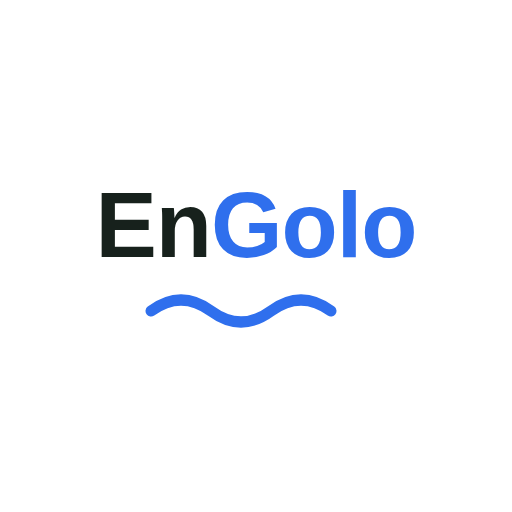
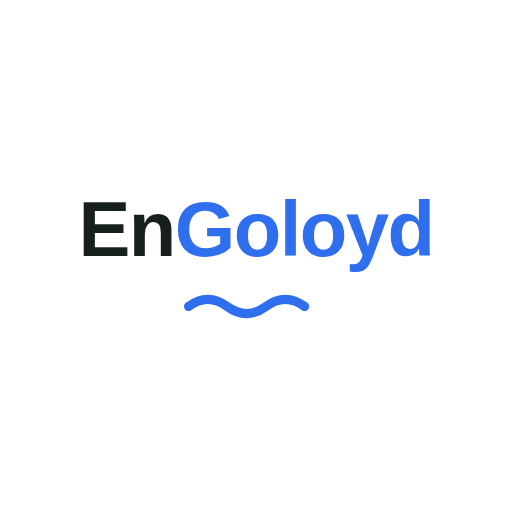
アプリ名・ロゴ・アプリアイコンを「EnGoloyd」に変更 (#69)
- タイトル・manifest.json(name/short_name)・APIキー注意書き・ロゴワードマークを
  EnGolo → EnGoloyd に更新（english + golo(ゴロ) + loyd の組み合わせ）
- ロゴの "Golo" 部分を "Goloyd" に変更し、CSSクラス名も logo-golo → logo-goloyd に統一
- アプリアイコン(icons/icon-192.png, icon-512.png)を新ワードマークで再生成

Changed region(s): [[0.1562, 0.375, 0.8438, 0.5312], [0.2812, 0.5625, 0.6562, 0.6562]]

diff --git a/index.html b/index.html
@@ -3,7 +3,7 @@
 <head>
 <meta charset="UTF-8">
 <meta name="viewport" content="width=device-width, initial-scale=1, viewport-fit=cover">
-<title>EnGolo</title>
+<title>EnGoloyd</title>
 <meta name="description" content="英単語を接辞に分解し、音の語呂合わせで覚えるアプリ">
 <meta name="theme-color" content="#1F6F63">
 <link rel="manifest" href="manifest.json">
@@ -24,7 +24,7 @@
     </div>
     <div class="home-logo">
       <button class="logo" data-nav="home" aria-label="ホームへ">
-        <span class="logo-word"><span class="logo-en">En</span><span class="logo-golo">Golo</span></span>
+        <span class="logo-word"><span class="logo-en">En</span><span class="logo-goloyd">Goloyd</span></span>
         <svg class="logo-wave" viewBox="0 0 230 46" width="30" height="6" aria-hidden="true"><path d="M10 24 Q 40 2, 70 24 T 130 24 T 190 24" stroke="currentColor" stroke-width="14" stroke-linecap="round" fill="none"/></svg>
       </button>
     </div>
@@ -46,7 +46,7 @@
   <section id="screen-decompose" class="screen">
     <div class="appbar" id="decompose-appbar" style="display:none;">
       <button class="logo" data-nav="home" aria-label="ホームへ">
-        <span class="logo-word"><span class="logo-en">En</span><span class="logo-golo">Golo</span></span>
+        <span class="logo-word"><span class="logo-en">En</span><span class="logo-goloyd">Goloyd</span></span>
         <svg class="logo-wave" viewBox="0 0 230 46" width="30" height="6" aria-hidden="true"><path d="M10 24 Q 40 2, 70 24 T 130 24 T 190 24" stroke="currentColor" stroke-width="14" stroke-linecap="round" fill="none"/></svg>
       </button>
       <div class="nav-icons">
@@ -194,7 +194,7 @@
       <div class="usage-note">概算値です。正確な金額は各社の請求画面でご確認ください。</div>
     </div>
 
-    <div class="lockrow">🔒 キーは端末内に暗号化して保存され、EnGoloの分解・語呂合わせ生成にのみ使用されます。</div>
+    <div class="lockrow">🔒 キーは端末内に暗号化して保存され、EnGoloydの分解・語呂合わせ生成にのみ使用されます。</div>
 
     <button class="btn-solid" id="save-key-btn">保存して疎通確認</button>
     <div class="settings-status" id="settings-status"></div>

diff --git a/app.js b/app.js
@@ -1,7 +1,7 @@
 "use strict";
 
 /* =========================================================================
-   EnGolo — app.js
+   EnGoloyd — app.js
    仕様書 (SPEC-01) に基づくプロトタイプ実装。
    - Stage 1: 接辞分解プロンプト（軽量・即時実行）
    - Stage 2: 語呂合わせ生成プロンプト（Stage1完了後、裏側で先行実行）

diff --git a/styles.css b/styles.css
@@ -59,7 +59,7 @@ button{font-family:inherit;cursor:pointer;}
 }
 .logo-word{display:flex;letter-spacing:-.3px;}
 .logo-en{color:var(--ink);}
-.logo-golo{color:var(--brand-blue);}
+.logo-goloyd{color:var(--brand-blue);}
 .logo-wave{color:var(--brand-blue);}
 #screen-home .appbar{justify-content:flex-end;}
 .home-logo{display:flex;justify-content:center;margin-top:11vh;}
